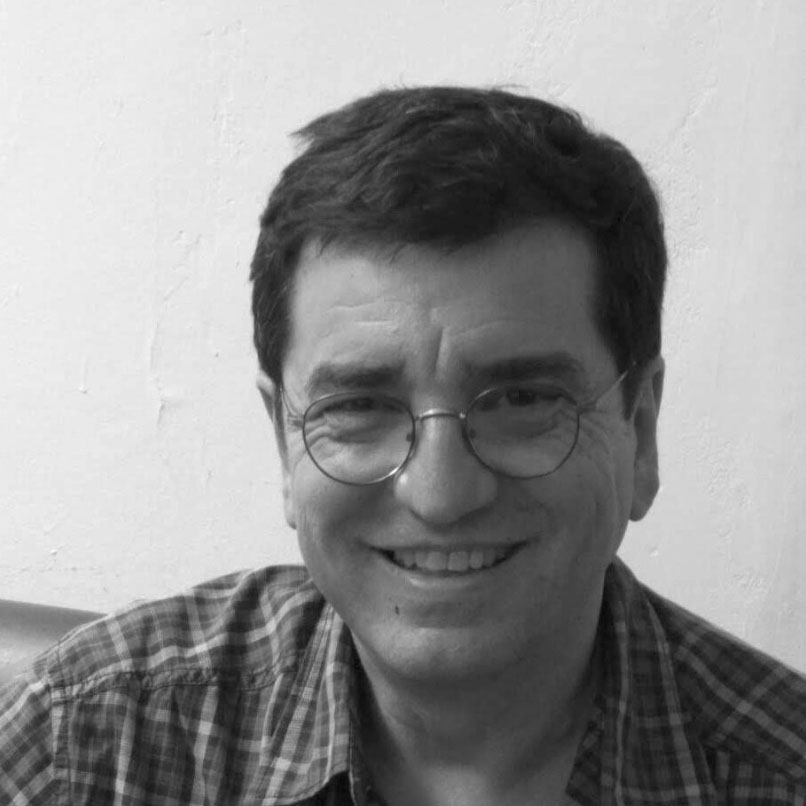
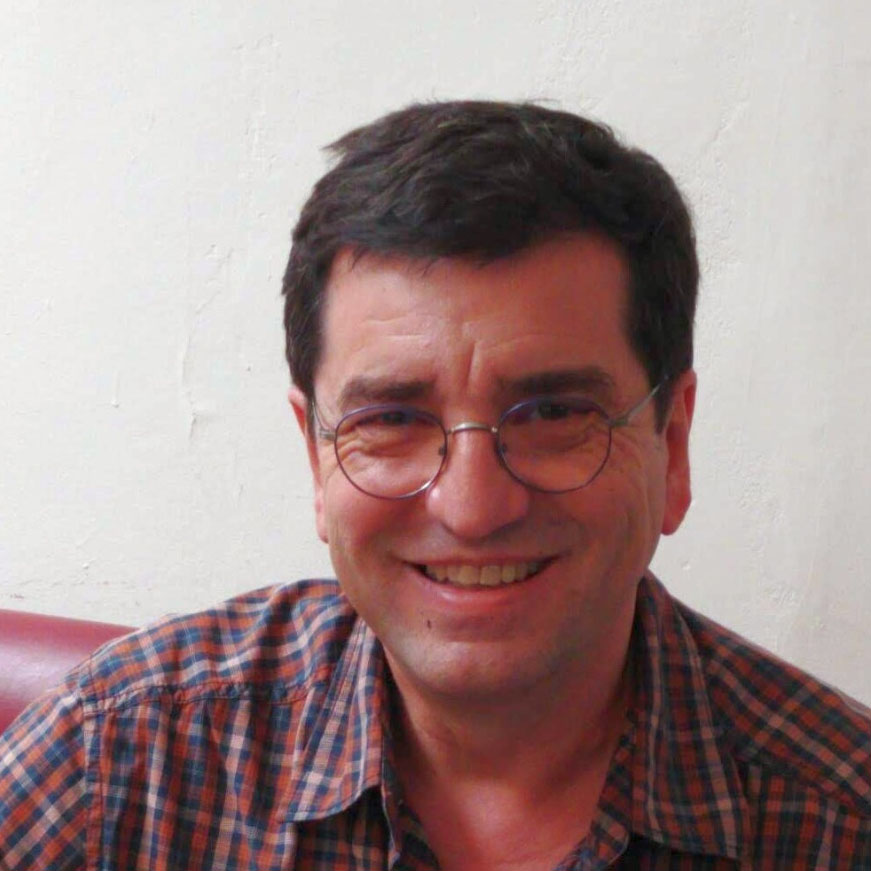
fotos de perfiles que faltaban

diff --git a/index.html b/index.html
@@ -169,7 +169,7 @@
 
         <div class="col-sm-4">
           <div class="team-member">
-            <img class="mx-auto rounded-circle" src="img/team/avatar.png" alt="">
+            <img class="mx-auto rounded-circle" src="img/team/rodrigo-kataishi.jpg" alt="">
             <h4>Rodrigo Kataishi</h4>
             <p>Es Doctor en Economía, investigador del CONICET y profesor asociado en la UNTDF. Actualmente es Coordinador de Investigación, Vinculación y Extensión del IDEI-UNTDF. Ha publicado en tópicos que vinculan la tecnología con el desarrollo económico y social, especializándose en técnicas de Data Science, econometría y análisis cuantitativo.</p>
           </div>
